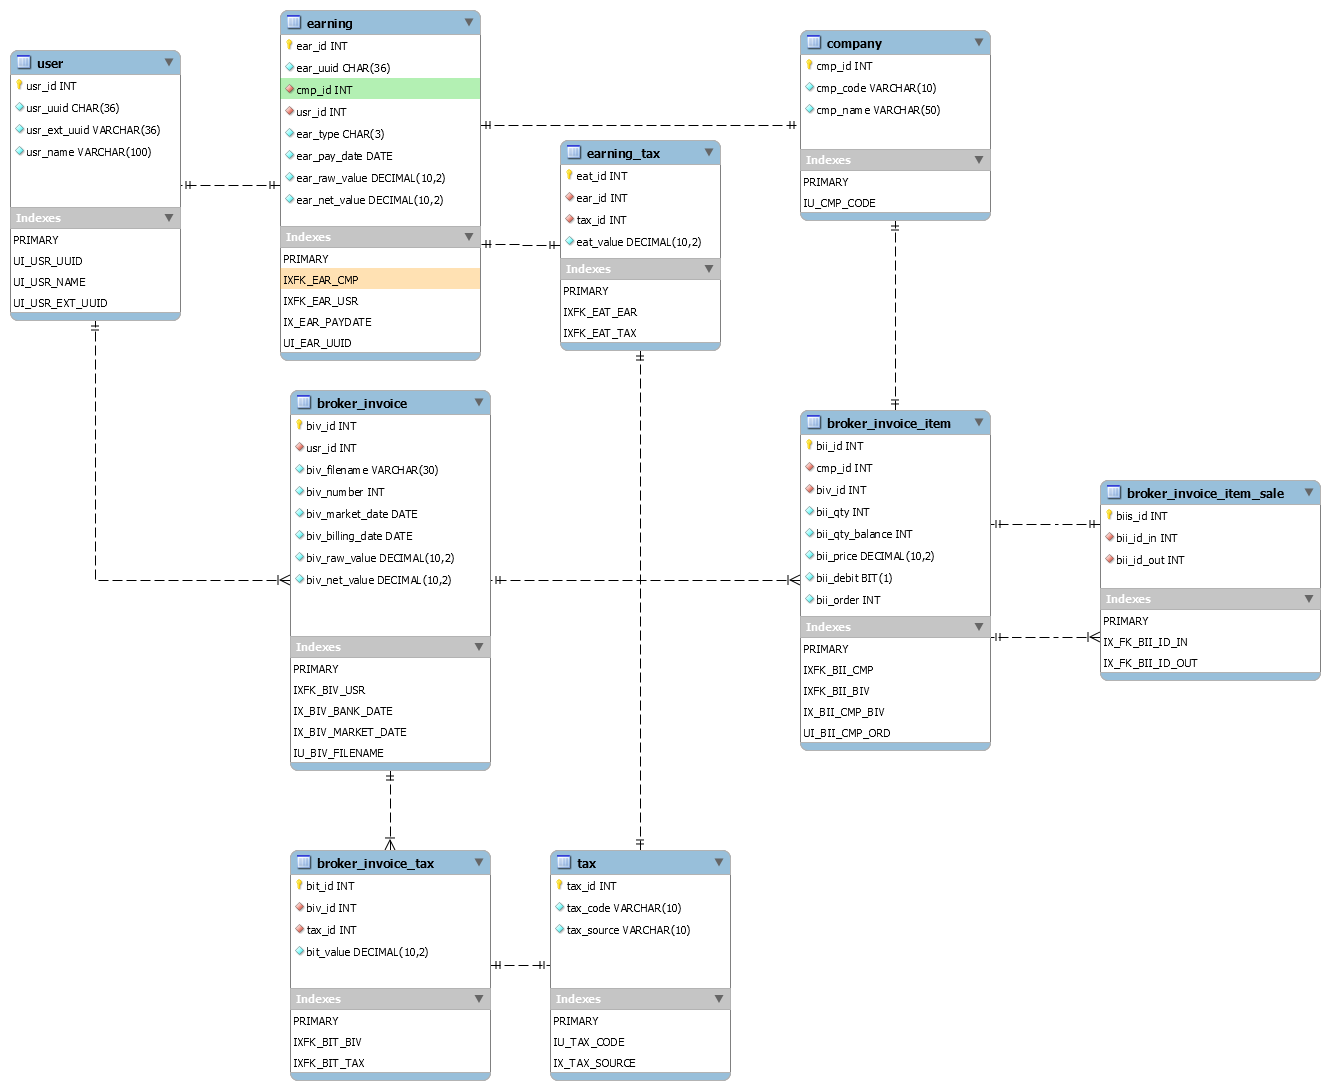
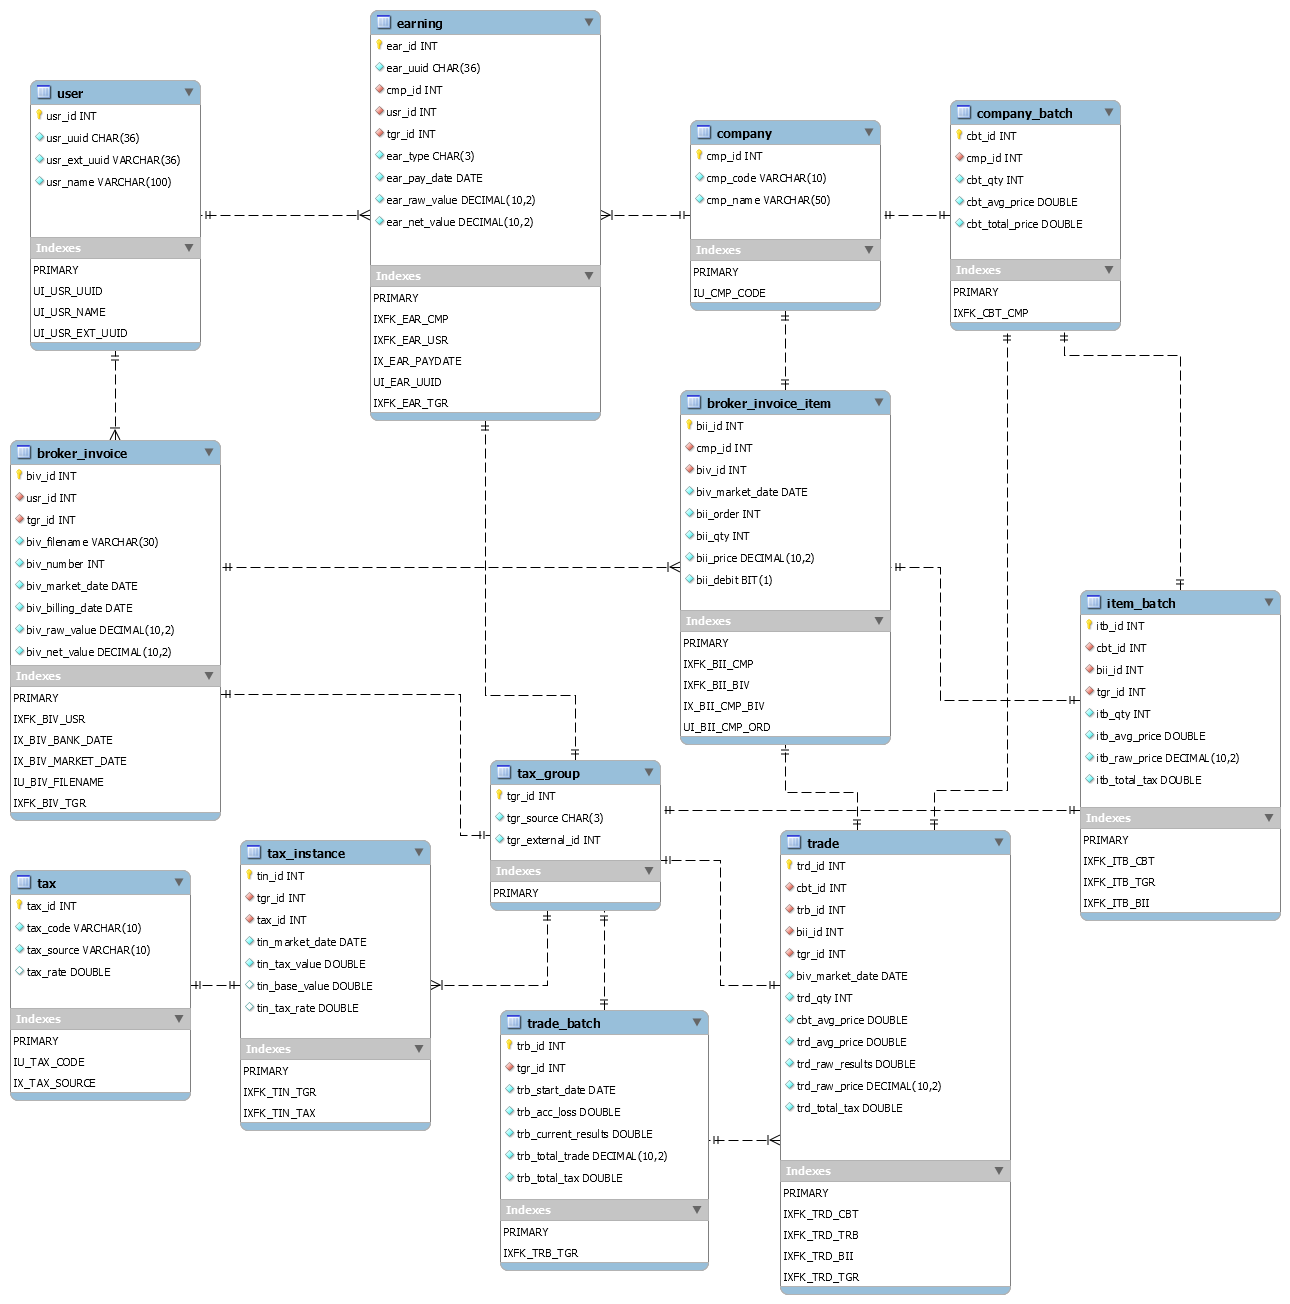
Refactor for the new trade and tax modules

Changed region(s): [[0.0, 0.0, 0.8682, 0.9982], [0.8062, 0.4367, 1.0, 0.7174]]

diff --git a/docs/prefixes.md b/docs/prefixes.md
@@ -1,0 +1,16 @@
+### Table Prefixes
+
+| #   | table               | prefix |
+| --- | ------------------- | ------ |
+| 1   | broker_invoice      | biv    |
+| 2   | broker_invoice_item | bit    |
+| 3   | company             | cmp    |
+| 4   | company_batch       | cbt    |
+| 5   | earning             | ear    |
+| 6   | item                | itb    |
+| 7   | tax                 | tax    |
+| 8   | tax_group           | tgr    |
+| 9   | tax_instance        | tin    |
+| 10  | trade               | trd    |
+| 11  | trade_batch         | trb    |
+| 12  | user                | usr    |
